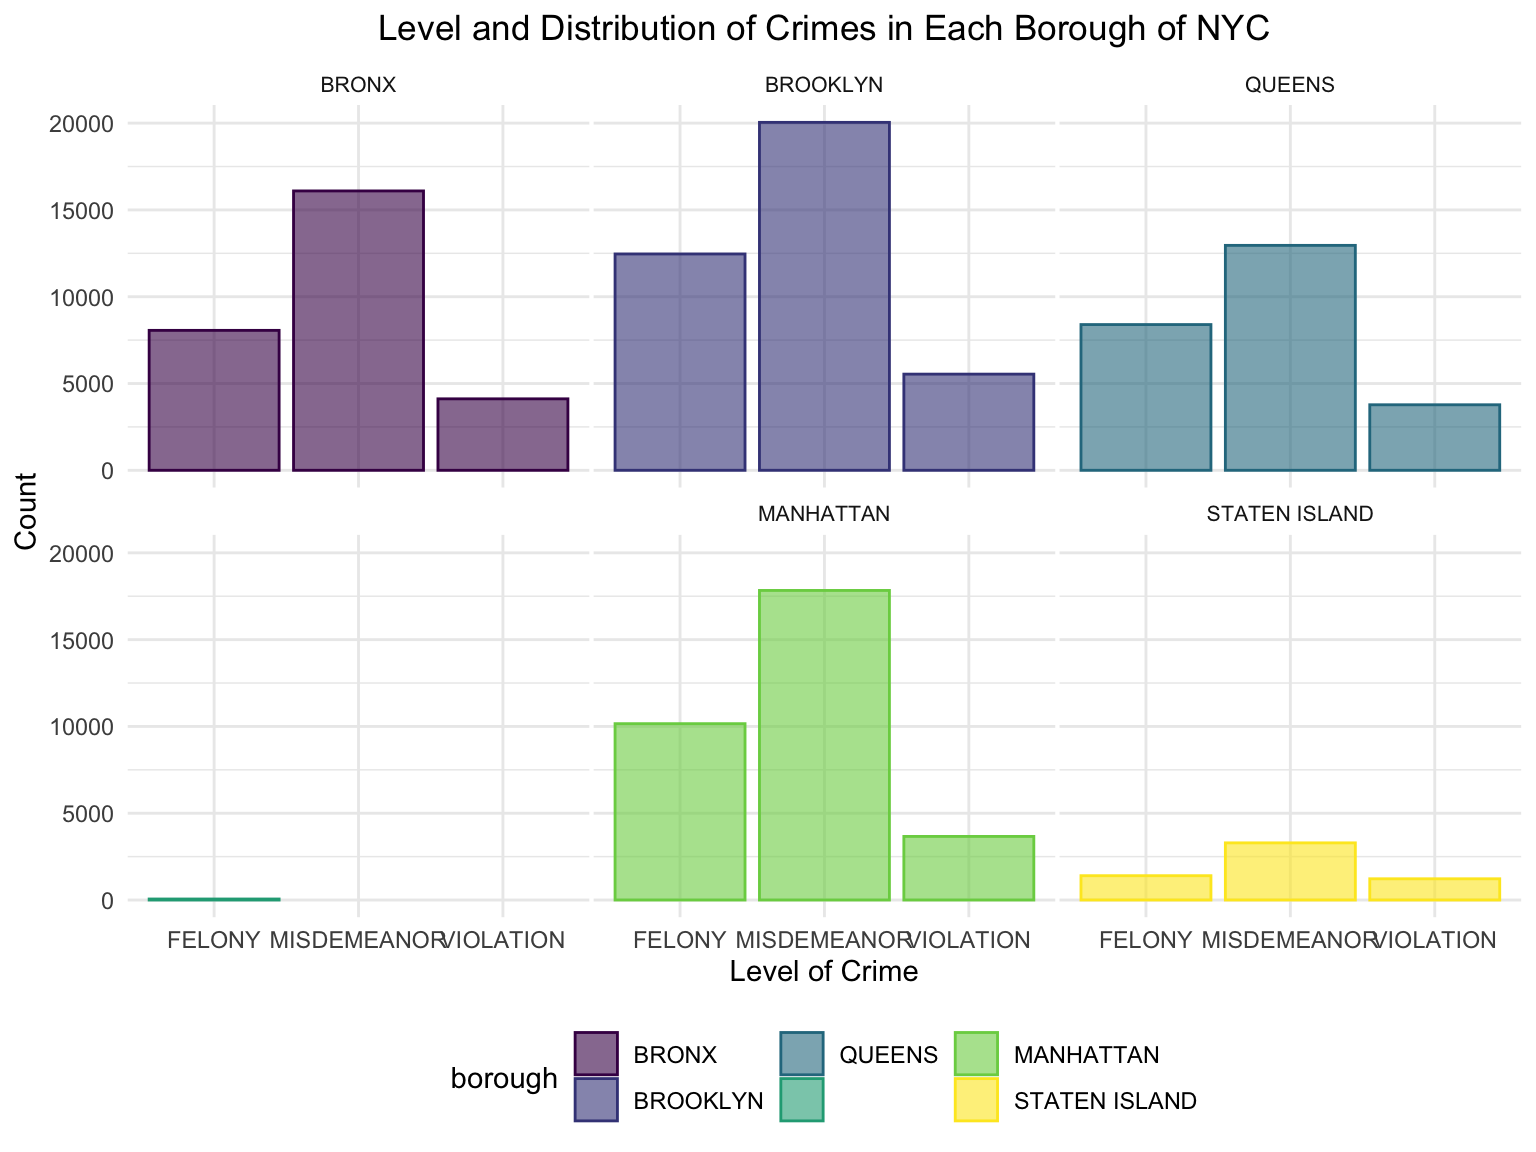
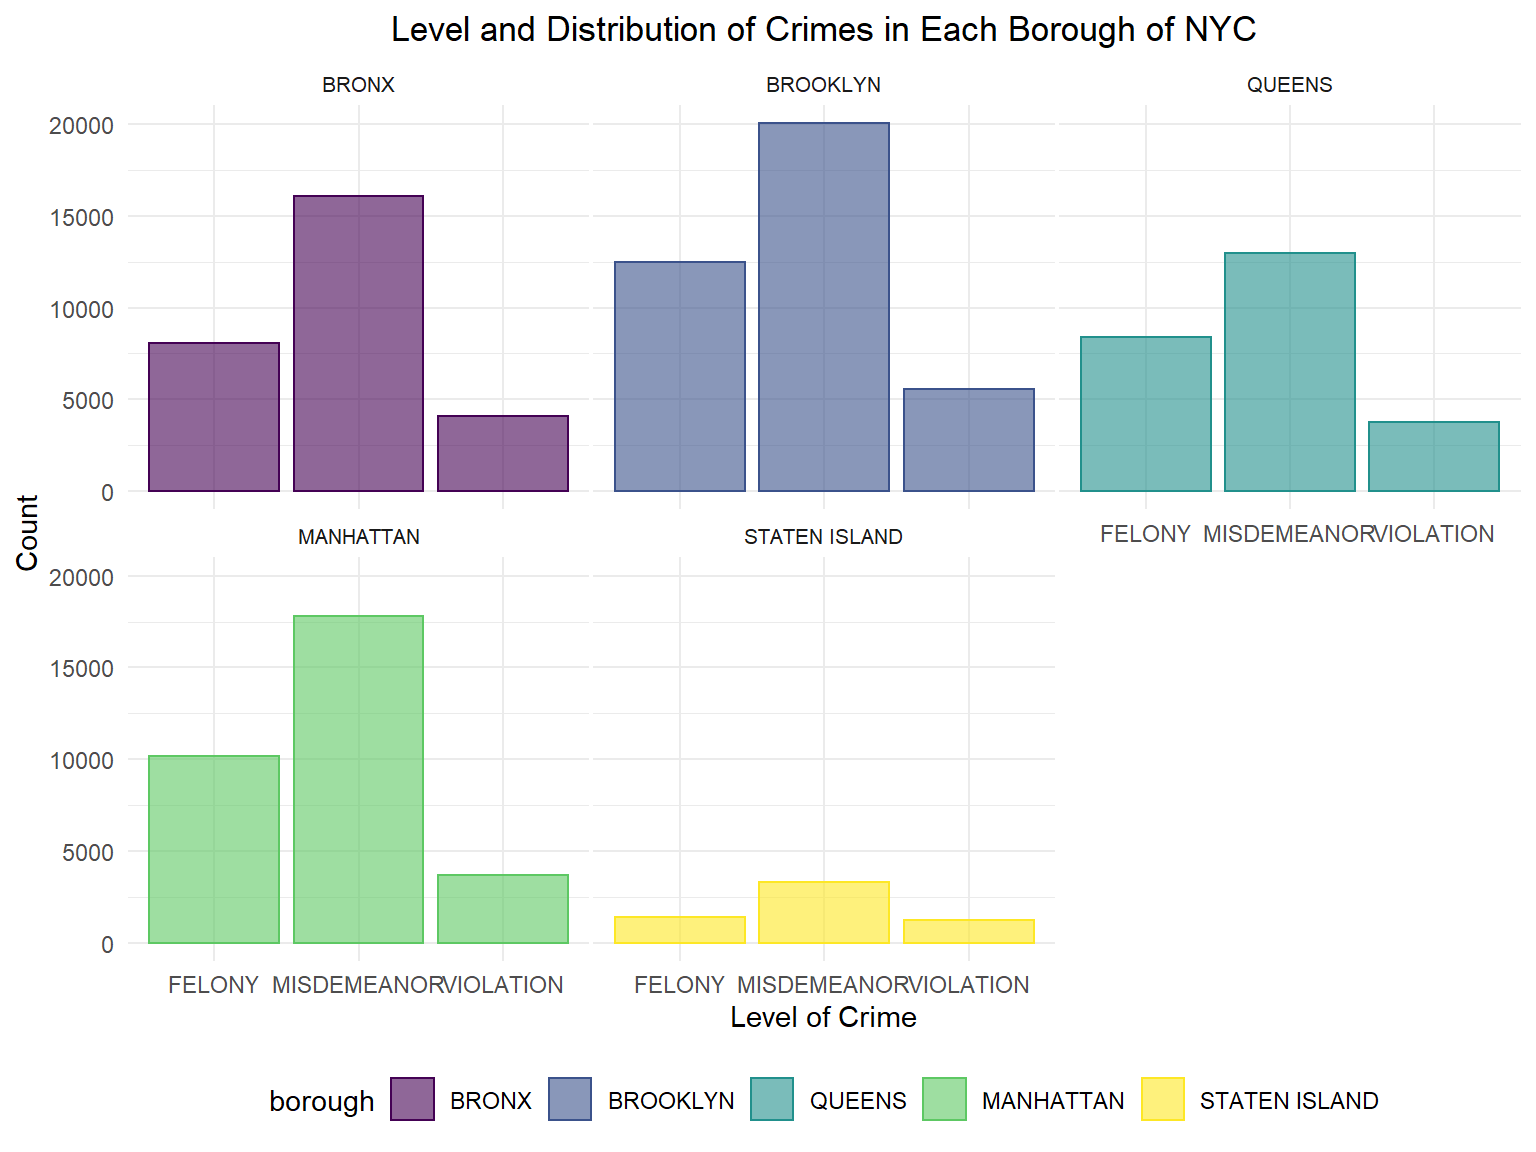
filter na

diff --git a/EDA.html b/EDA.html
@@ -10,7 +10,6 @@
 
 
 
-<meta name="date" content="2022-12-01" />
 
 <title>EDA</title>
 
@@ -30,7 +29,11 @@
        h6 {font-size: 12px;}
        code {color: inherit; background-color: rgba(0, 0, 0, 0.04);}
        pre:not([class]) { background-color: white }</style>
+<script src="site_libs/jqueryui-1.11.4/jquery-ui.min.js"></script>
+<link href="site_libs/tocify-1.9.1/jquery.tocify.css" rel="stylesheet" />
+<script src="site_libs/tocify-1.9.1/jquery.tocify.js"></script>
 <script src="site_libs/navigation-1.1/tabsets.js"></script>
+<script src="site_libs/navigation-1.1/codefolding.js"></script>
 <link href="site_libs/highlightjs-9.12.0/default.css" rel="stylesheet" />
 <script src="site_libs/highlightjs-9.12.0/highlight.js"></script>
 <link href="site_libs/font-awesome-5.1.0/css/all.css" rel="stylesheet" />
@@ -226,7 +229,73 @@ $(document).ready(function () {
 </style>
 
 <!-- code folding -->
+<style type="text/css">
+.code-folding-btn { margin-bottom: 4px; }
+</style>
 
+
+
+<style type="text/css">
+
+#TOC {
+  margin: 25px 0px 20px 0px;
+}
+@media (max-width: 768px) {
+#TOC {
+  position: relative;
+  width: 100%;
+}
+}
+
+@media print {
+.toc-content {
+  /* see https://github.com/w3c/csswg-drafts/issues/4434 */
+  float: right;
+}
+}
+
+.toc-content {
+  padding-left: 30px;
+  padding-right: 40px;
+}
+
+div.main-container {
+  max-width: 1200px;
+}
+
+div.tocify {
+  width: 20%;
+  max-width: 260px;
+  max-height: 85%;
+}
+
+@media (min-width: 768px) and (max-width: 991px) {
+  div.tocify {
+    width: 25%;
+  }
+}
+
+@media (max-width: 767px) {
+  div.tocify {
+    width: 100%;
+    max-width: none;
+  }
+}
+
+.tocify ul, .tocify li {
+  line-height: 20px;
+}
+
+.tocify-subheader .tocify-item {
+  font-size: 0.90em;
+}
+
+.tocify .list-group-item {
+  border-radius: 0px;
+}
+
+
+</style>
 
 
 
@@ -236,6 +305,16 @@ $(document).ready(function () {
 
 
 <div class="container-fluid main-container">
+
+
+<!-- setup 3col/9col grid for toc_float and main content  -->
+<div class="row">
+<div class="col-xs-12 col-sm-4 col-md-3">
+<div id="TOC" class="tocify">
+</div>
+</div>
+
+<div class="toc-content col-xs-12 col-sm-8 col-md-9">
 
 
 
@@ -298,16 +377,21 @@ $(document).ready(function () {
 
 <div id="header">
 
+<div class="btn-group pull-right float-right">
+<button type="button" class="btn btn-default btn-xs btn-secondary btn-sm dropdown-toggle" data-toggle="dropdown" data-bs-toggle="dropdown" aria-haspopup="true" aria-expanded="false"><span>Code</span> <span class="caret"></span></button>
+<ul class="dropdown-menu dropdown-menu-right" style="min-width: 50px;">
+<li><a id="rmd-show-all-code" href="#">Show All Code</a></li>
+<li><a id="rmd-hide-all-code" href="#">Hide All Code</a></li>
+</ul>
+</div>
+
 
 
 <h1 class="title toc-ignore">EDA</h1>
-<h4 class="date">2022-12-01</h4>
 
 </div>
 
 
-<div id="r-markdown" class="section level2">
-<h2>R Markdown</h2>
 <pre class="r"><code>crime_raw &lt;- read.csv(&quot;data/nyc_complaint_data.csv&quot;)
 
 crime_df &lt;- crime_raw %&gt;%
@@ -366,7 +450,6 @@ new_crime_df = crime_df %&gt;%
   summarize(
     total_crime = n(),
     ) </code></pre>
-</div>
 <div id="some-exploration" class="section level2">
 <h2>Some exploration</h2>
 <pre class="r"><code>crime_weather = merge(new_crime_df, average_weather, by = &quot;date&quot;)
@@ -462,7 +545,7 @@ crime_hour_plot</code></pre>
 <p><img src="EDA_files/figure-html/unnamed-chunk-4-2.png" width="768" /></p>
 <pre class="r"><code>#Histogram of crimes in 5 boroughs
 
-his1 = crime_df %&gt;% 
+his1 = crime_df %&gt;% filter(borough != &quot;&quot;)%&gt;%
   mutate(borough = fct_reorder(borough, mon)) %&gt;%
   ggplot(aes(x=mon, color=borough, fill=borough)) +
     geom_histogram(alpha=0.6, binwidth = 1, bins = 12, stat= &quot;count&quot;) +
@@ -479,7 +562,7 @@ his1 = crime_df %&gt;%
 
 his1</code></pre>
 <p><img src="EDA_files/figure-html/unnamed-chunk-5-1.png" width="768" /></p>
-<pre class="r"><code>his2 = crime_df %&gt;% 
+<pre class="r"><code>his2 = crime_df %&gt;% filter(borough != &quot;&quot;)%&gt;%
   mutate(borough = fct_reorder(borough, hour_of_day)) %&gt;%
   ggplot(aes(x=hour_of_day, color=borough, fill=borough)) +
     geom_histogram(alpha=0.6, binwidth = 1, bins = 24, stat= &quot;count&quot;) +
@@ -490,7 +573,8 @@ his1</code></pre>
     theme(legend.position=&quot;bottom&quot;,
       panel.spacing = unit(0.1, &quot;lines&quot;),
       strip.text.x = element_text(size = 8),
-      plot.title=element_text(hjust=0.5)
+      plot.title=element_text(hjust=0.5),
+      axis.text.x = element_text(angle=70)
       ) +
     facet_wrap(~borough)
 
@@ -498,7 +582,7 @@ his2</code></pre>
 <p><img src="EDA_files/figure-html/unnamed-chunk-5-2.png" width="768" /></p>
 <pre class="r"><code>#Level of Crimes and Distribution in Borough
 
-his3 = crime_df %&gt;% 
+his3 = crime_df %&gt;% filter(borough != &quot;&quot;)%&gt;%
   mutate(borough = fct_reorder(borough, level)) %&gt;%
   ggplot(aes(x=level, color=borough, fill=borough)) +
     geom_histogram(alpha=0.6, binwidth = 1, stat= &quot;count&quot;) +
@@ -518,7 +602,7 @@ his3</code></pre>
   filter(offense == &#39;PETIT LARCENY&#39;| offense == &#39;HARRASSMENT 2&#39;| offense == &#39;ASSAULT 3 &amp; RELATED OFFENSES&#39;)
 
 
-his4 = offense_type %&gt;%
+his4 = offense_type %&gt;% filter(borough != &quot;&quot;)%&gt;%
   mutate(offense = fct_reorder(offense, borough)) %&gt;%
   ggplot(aes(x=borough, color=offense, fill=offense)) +
     geom_histogram(alpha=0.6, binwidth = 1, stat= &quot;count&quot;) +
@@ -528,7 +612,8 @@ his4 = offense_type %&gt;%
     theme(legend.position=&quot;bottom&quot;,
       panel.spacing = unit(0.1, &quot;lines&quot;),
       strip.text.x = element_text(size = 8),
-      plot.title=element_text(hjust=0.5)
+      plot.title=element_text(hjust=1),
+      axis.text.x = element_text(angle=70)
       ) +
     facet_wrap(~offense)
 
@@ -555,7 +640,8 @@ hotcrime = offense_type %&gt;%
     theme(legend.position=&quot;bottom&quot;,
       panel.spacing = unit(0.1, &quot;lines&quot;),
       strip.text.x = element_text(size = 8),
-      plot.title=element_text(hjust=0.5)
+      plot.title=element_text(hjust=0.5),
+      axis.text.x = element_text(angle=70)
       ) +
     facet_wrap(~offense)
 
@@ -619,6 +705,8 @@ h3</code></pre>
 
 
 
+</div>
+</div>
 
 </div>
 
@@ -650,7 +738,41 @@ $(document).ready(function () {
 </script>
 
 <!-- code folding -->
+<script>
+$(document).ready(function () {
+  window.initializeCodeFolding("hide" === "show");
+});
+</script>
 
+<script>
+$(document).ready(function ()  {
+
+    // temporarily add toc-ignore selector to headers for the consistency with Pandoc
+    $('.unlisted.unnumbered').addClass('toc-ignore')
+
+    // move toc-ignore selectors from section div to header
+    $('div.section.toc-ignore')
+        .removeClass('toc-ignore')
+        .children('h1,h2,h3,h4,h5').addClass('toc-ignore');
+
+    // establish options
+    var options = {
+      selectors: "h1,h2,h3",
+      theme: "bootstrap3",
+      context: '.toc-content',
+      hashGenerator: function (text) {
+        return text.replace(/[.\\/?&!#<>]/g, '').replace(/\s/g, '_');
+      },
+      ignoreSelector: ".toc-ignore",
+      scrollTo: 0
+    };
+    options.showAndHide = true;
+    options.smoothScroll = true;
+
+    // tocify
+    var toc = $("#TOC").tocify(options).data("toc-tocify");
+});
+</script>
 
 <!-- dynamically load mathjax for compatibility with self-contained -->
 <script>
